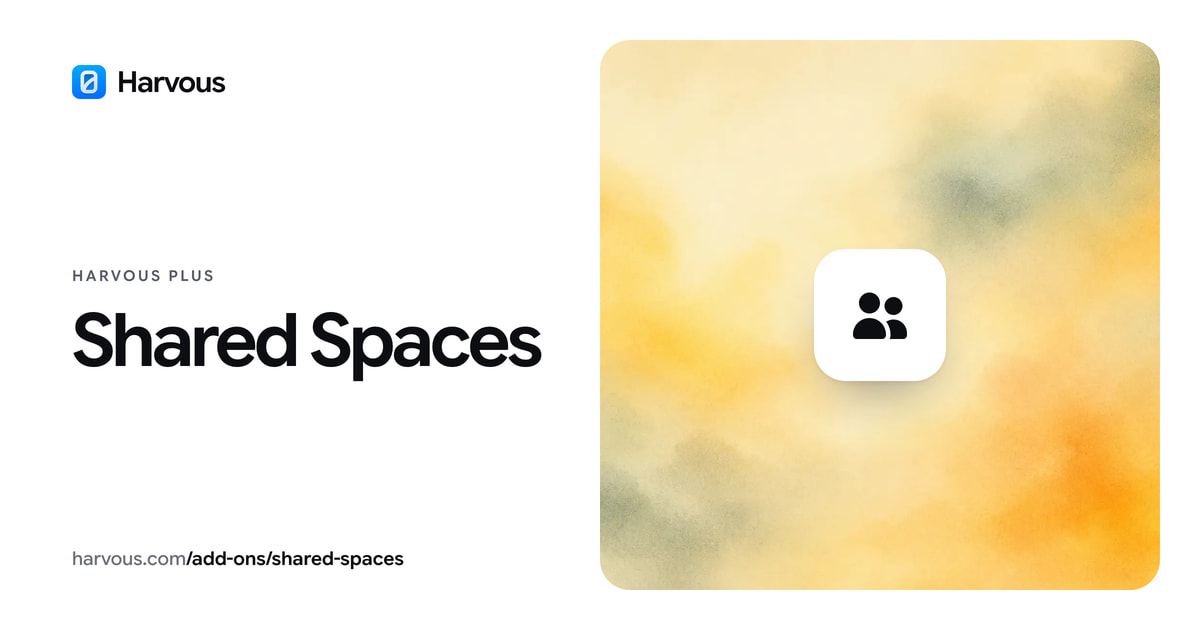
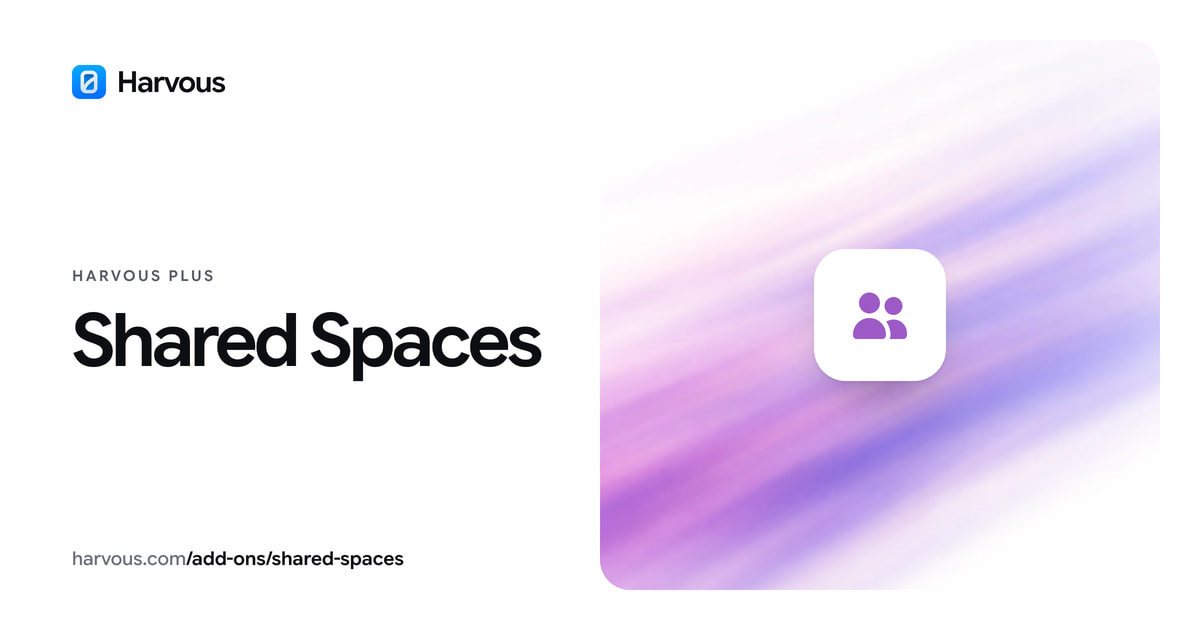
chore(colour): add-on and family pages follow their bento colours
Shared Spaces goes violet (ink, showcase, sky) and Review exercises coral
(ink, first scene, sky); /for/families/ takes the teal sky. Add-on OG cards
now use each page's own sky and ink, as audience cards already do.

diff --git a/src/lib/addons-data.ts b/src/lib/addons-data.ts
@@ -18,8 +18,8 @@ const ADDON_PAGES: AddonPage[] = [
     seoDescription:
       "Shared Spaces let your whole group study in the same threads — questions, discoveries, and scripture references that live beyond the hour you meet. Hosting is included with Harvous Plus; joining is always free.",
     icon: "fa7-solid:user-group",
-    ink: "var(--study-dock-accent-coralRose)",
-    image: "/images/auth-hero/ai_bg_045.webp",
+    ink: "var(--study-dock-accent-violet)",
+    image: "/images/auth-hero/ai_bg_076.webp",
     comingSoon: false,
     heroTitle: "One space where your group studies together.",
     heroLead:
@@ -50,7 +50,7 @@ const ADDON_PAGES: AddonPage[] = [
       {
         eyebrow: "Group study",
         title: "Threads your whole group can add to",
-        color: "coral",
+        color: "violet",
         body: [
           "Week four of your James study gets its own thread. Everyone's notes from that session live together — questions, answers, and scripture references in one place.",
           "Look back at what the group found, weeks after the night everyone was in the room.",
@@ -107,8 +107,8 @@ const ADDON_PAGES: AddonPage[] = [
     seoDescription:
       "Review exercises turn your own notes, the verses you keep, and the chapters you read into short questions with real answers. No question is written by AI, and there is no score, streak, or leaderboard.",
     icon: "fa7-solid:clock-rotate-left",
-    ink: "var(--study-dock-accent-violet)",
-    image: "/images/auth-hero/ai_bg_075.webp",
+    ink: "var(--study-dock-accent-coralRose)",
+    image: "/images/auth-hero/ai_bg_045.webp",
     comingSoon: false,
     heroTitle: "A deliberate way to keep what you studied.",
     heroLead:

diff --git a/src/lib/for-audiences-data.ts b/src/lib/for-audiences-data.ts
@@ -835,7 +835,7 @@ const audiences: ForAudience[] = [
     tagline: "One Plus for the household, a space to study in together, and notes that stay each person's own.",
     icon: "fa7-solid:house-chimney-user",
     ink: "var(--study-dock-accent-teal)",
-    image: "/images/auth-hero/ai_bg_052.webp",
+    image: "/images/auth-hero/ai_bg_075.webp",
     seoTitle: "For families — one Harvous Plus for your household",
     seoDescription:
       "Harvous Plus covers up to 5 more people in your family, with a Family Space everyone shares. Parents see how their teenagers' study is going, never what they wrote. For ages 13 and up.",
